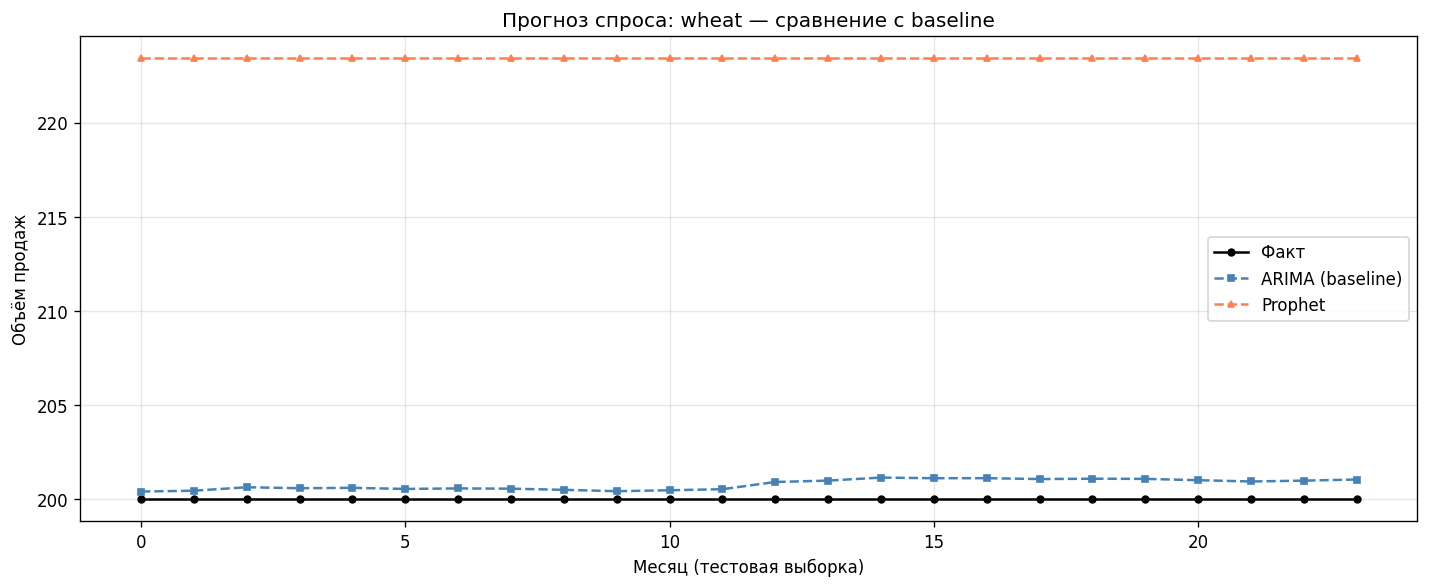
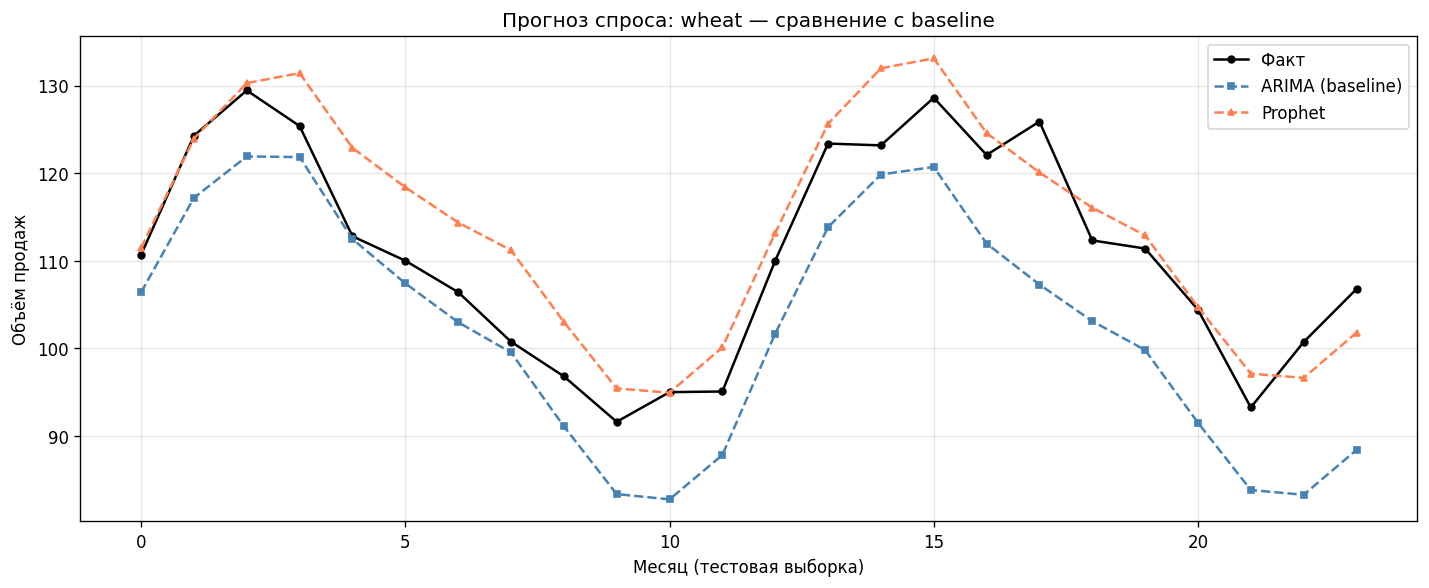
Исправлены синтетические данные и fallback Prophet

diff --git a/data_loader.py b/data_loader.py
@@ -19,15 +19,16 @@ def fetch_faostat_synthetic(product: str = "wheat", years: int = 10) -> pd.DataF
     """
     Синтетические данные объёмов продаж в стиле FAOSTAT.
     Источник: https://www.fao.org/faostat/
+    Тренд + сезонность без жёсткого обрезания — значения меняются по всему ряду.
     """
     dates = pd.date_range(end=pd.Timestamp.now(), periods=years * 12, freq="ME")
     np.random.seed(42)
     t = np.arange(len(dates))
-    # Тренд + сезонность (годовая)
-    trend = 100 + 2 * t + 0.01 * t ** 2
-    season = 15 * np.sin(2 * np.pi * t / 12) + 5 * np.sin(2 * np.pi * t / 6)
-    noise = np.random.randn(len(dates)) * 3
-    sales = np.clip(trend + season + noise, 50, 200)
+    # Умеренный тренд (~+25 за 10 лет) + сезонность + многолетний цикл
+    trend = 95 + 0.2 * t + 8 * np.sin(2 * np.pi * t / 60)
+    season = 18 * np.sin(2 * np.pi * t / 12) + 6 * np.sin(2 * np.pi * t / 6)
+    noise = np.random.randn(len(dates)) * 4
+    sales = trend + season + noise
     return pd.DataFrame({"ds": dates, "y": sales})
 
 
@@ -39,10 +40,10 @@ def fetch_usda_synthetic(product: str = "milk", years: int = 10) -> pd.DataFrame
     dates = pd.date_range(end=pd.Timestamp.now(), periods=years * 12, freq="ME")
     np.random.seed(43)
     t = np.arange(len(dates))
-    trend = 80 + 1.5 * t
-    season = 12 * np.sin(2 * np.pi * t / 12 - np.pi / 4)  # сдвиг фазы для молока
-    noise = np.random.randn(len(dates)) * 2
-    sales = np.clip(trend + season + noise, 40, 150)
+    trend = 80 + 0.15 * t + 6 * np.sin(2 * np.pi * t / 48)
+    season = 14 * np.sin(2 * np.pi * t / 12 - np.pi / 4)
+    noise = np.random.randn(len(dates)) * 3
+    sales = trend + season + noise
     return pd.DataFrame({"ds": dates, "y": sales})
 
 

diff --git a/models.py b/models.py
@@ -54,22 +54,20 @@ def train_prophet(df: pd.DataFrame, test_size: int) -> tuple:
     df должен иметь колонки ds (datetime), y (значение).
     """
     if not PROPHET_AVAILABLE:
-        # Fallback: последние 12 мес как шаблон + линейный тренд
+        # Fallback: сезонная декомпозиция (среднее по месяцам) + линейный тренд
         y = df["y"].values
         train, test = y[:-test_size], y[-test_size:]
         n = len(test)
         if len(train) >= 24:
-            last12 = train[-12:]
-            base = np.mean(train)
-            seas = last12 - base
-            # тренд из последних 24 мес
-            x_tr = np.arange(min(24, len(train)))
-            y_tr = train[-len(x_tr):]
-            coef = np.polyfit(x_tr, y_tr, 1)
+            # Сезонная компонента: среднее отклонение по месяцу
+            seasonal = np.array([np.mean(train[i::12]) for i in range(12)]) - np.mean(train)
+            # Тренд: линейная регрессия по всему train
+            x_tr = np.arange(len(train))
+            coef = np.polyfit(x_tr, train, 1)
             pred = []
             for j in range(n):
                 trend_val = np.polyval(coef, len(train) + j)
-                pred.append(trend_val + seas[j % 12])
+                pred.append(trend_val + seasonal[j % 12])
             pred = np.array(pred)
         else:
             pred = np.full(n, np.mean(train))

diff --git a/show_data.py b/show_data.py
@@ -1,0 +1,10 @@
+from data_loader import load_dataset
+import numpy as np
+
+df = load_dataset("wheat")
+y = np.round(df["y"].values, 2)
+print("Array y (synthetic values):")
+print(y.tolist())
+print("\nFirst 12:", y[:12].tolist())
+print("Last 12:", y[-12:].tolist())
+print("Min:", y.min(), "Max:", y.max(), "Mean:", round(y.mean(), 2))
